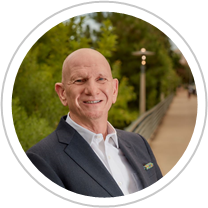
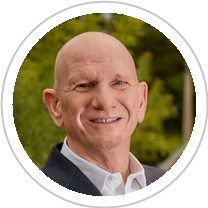
Recrop headshots, drop duplicate Compass, unify TREC separators

diff --git a/signature-card.html b/signature-card.html
@@ -19,10 +19,10 @@
               <tr>
                 <td style="vertical-align:middle;">
                   <div style="font-family:Georgia,'Times New Roman',serif;font-size:22px;color:#ffffff;line-height:1.1;">Mike Spear</div>
-                  <div style="font-size:10px;letter-spacing:0.18em;color:#9a9a9a;padding-top:5px;">REALTOR&reg; &nbsp;&middot;&nbsp; COMPASS REAL ESTATE</div>
+                  <div style="font-size:10px;letter-spacing:0.18em;color:#9a9a9a;padding-top:5px;">REALTOR&reg; &nbsp;&middot;&nbsp; HOUSTON, TX</div>
                   <div style="font-size:11px;font-weight:bold;letter-spacing:0.32em;color:#ffffff;padding-top:12px;">COMPASS</div>
                 </td>
-                <td width="104" style="vertical-align:top;">
+                <td width="104" style="vertical-align:top;padding-left:18px;">
                   <img src="https://links.mikespear.com/sig-avatar.png" width="104" height="104" alt="Mike Spear" style="display:block;margin-top:20px;margin-bottom:-66px;">
                 </td>
               </tr>
@@ -35,8 +35,6 @@
               <a href="tel:+17132047653" style="color:#111111;text-decoration:none;">713.204.7653</a>
               <span style="color:#bbbbbb;">&nbsp;&middot;&nbsp;</span>
               <a href="mailto:mike@mikespear.com" style="color:#111111;text-decoration:none;">mike@mikespear.com</a>
-              <span style="color:#bbbbbb;">&nbsp;&middot;&nbsp;</span>
-              <span style="color:#666666;">Houston, TX</span>
             </div>
             <table cellpadding="0" cellspacing="0" border="0">
               <tr>
@@ -59,11 +57,10 @@
   </tr>
   <tr>
     <td style="padding-top:10px;font-size:10.5px;color:#999999;line-height:1.5;">
-      TREC:
       <a href="https://files.mikespear.com/iabs" style="color:#999999;">Information About Brokerage Services</a>
       &middot;
       <a href="https://files.mikespear.com/cpn" style="color:#999999;">Consumer Protection Notice</a>
-      &nbsp;|&nbsp;
+      &middot;
       <a href="https://files.mikespear.com/wire" style="color:#999999;">Wire Fraud Notice</a>
     </td>
   </tr>

diff --git a/signature.html b/signature.html
@@ -38,11 +38,10 @@
   </tr>
   <tr>
     <td colspan="2" style="padding-top:8px;font-size:10.5px;color:#999999;line-height:1.5;">
-      TREC:
       <a href="https://files.mikespear.com/iabs" style="color:#999999;">Information About Brokerage Services</a>
       &middot;
       <a href="https://files.mikespear.com/cpn" style="color:#999999;">Consumer Protection Notice</a>
-      &nbsp;|&nbsp;
+      &middot;
       <a href="https://files.mikespear.com/wire" style="color:#999999;">Wire Fraud Notice</a>
     </td>
   </tr>
